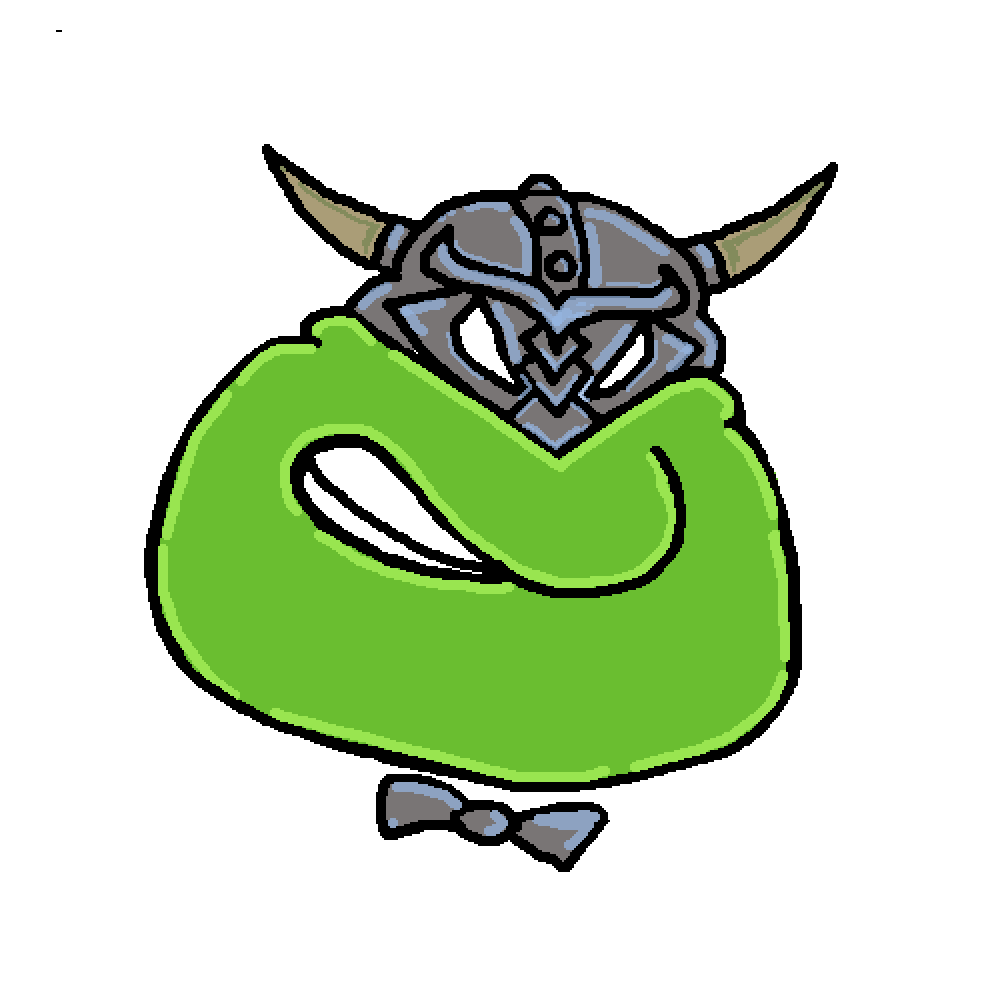
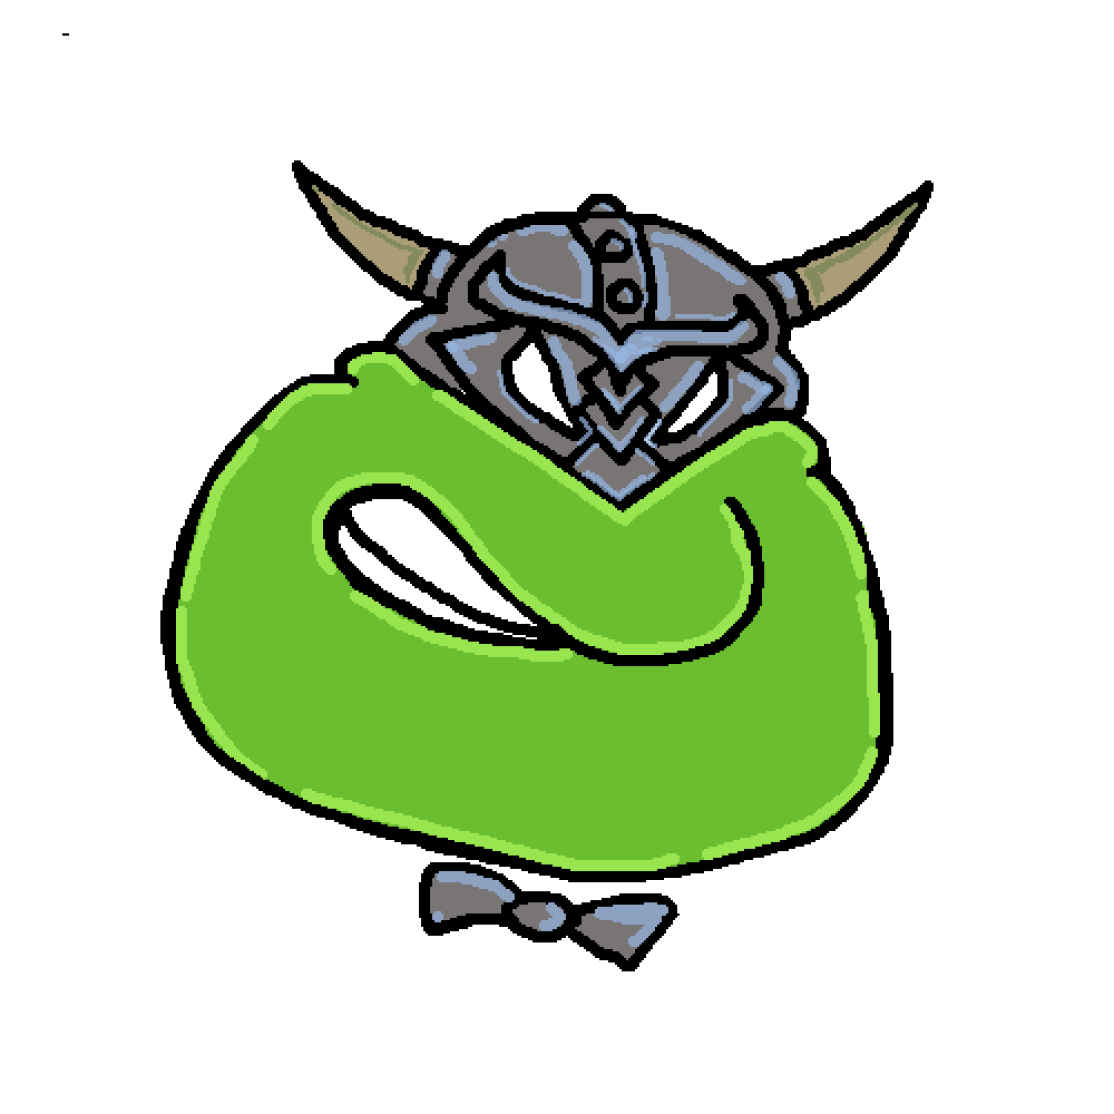
fixed viking size and normaldo hitboxes

diff --git a/normaldo_gaming/lib/data/skins/skins_repository_test_impl.dart b/normaldo_gaming/lib/data/skins/skins_repository_test_impl.dart
@@ -2,7 +2,6 @@ import 'package:normaldo_gaming/domain/pull_up_game/items.dart';
 import 'package:normaldo_gaming/domain/skins/skins_repository.dart';
 
 // ADD SFX
-// replace cocktail key to slow key
 
 final class SkinsRepositoryTestImpl implements SkinsRepository {
   @override
@@ -11,10 +10,6 @@ final class SkinsRepositoryTestImpl implements SkinsRepository {
           uniqueId: 'basic',
           name: 'NORMALDO',
           rarity: SkinRarity.classic,
-          speed: 1,
-          size: 1,
-          appearanceMultiplier: 1,
-          itemsSpeedMultiplier: 1,
           assets: SkinAssets(
             skinny: 'normaldo/normaldo1.png',
             slim: 'normaldo/normaldo2.png',
@@ -33,10 +28,6 @@ final class SkinsRepositoryTestImpl implements SkinsRepository {
           uniqueId: 'batman',
           name: 'HERO MASK',
           rarity: SkinRarity.rare,
-          speed: 1.1,
-          size: 1,
-          appearanceMultiplier: 1,
-          itemsSpeedMultiplier: 1,
           assets: SkinAssets(
               skinny: 'normaldo/batman/skinny.png',
               slim: 'normaldo/batman/slim.png',
@@ -49,7 +40,7 @@ final class SkinsRepositoryTestImpl implements SkinsRepository {
               dead: 'normaldo/batman/dead.png',
               mask: 'normaldo/batman/mask.png',
               sfx: {
-                'cocktail': ['batman/BATMAN COCTAIL.mp3'],
+                'slow': ['batman/BATMAN COCTAIL.mp3'],
                 'bite': ['batman/BATMAN EAT.mp3'],
                 'hit': ['batman/BATMAN HIT.mp3'],
                 'resist': ['batman/BATMAN LAUGHT.mp3'],
@@ -64,10 +55,6 @@ final class SkinsRepositoryTestImpl implements SkinsRepository {
           uniqueId: 'dracula',
           name: 'DRACULA BLOOD',
           rarity: SkinRarity.epic,
-          speed: 1.2,
-          size: 1.1,
-          appearanceMultiplier: 1,
-          itemsSpeedMultiplier: 1,
           assets: SkinAssets(
               skinny: 'normaldo/dracula/skinny.png',
               slim: 'normaldo/dracula/slim.png',
@@ -81,7 +68,7 @@ final class SkinsRepositoryTestImpl implements SkinsRepository {
               mask: 'normaldo/dracula/mask.png',
               sfx: {
                 'fatUp': ['dracula/VAMP BUPR.mp3'],
-                'cocktail': [
+                'slow': [
                   'dracula/VAMP EAT ENJOY.mp3',
                   'dracula/VAMP EAT ENJOY2.mp3',
                 ],
@@ -114,10 +101,6 @@ final class SkinsRepositoryTestImpl implements SkinsRepository {
           uniqueId: 'glasses',
           name: 'LUXURY GLASSES',
           rarity: SkinRarity.epic,
-          speed: 1,
-          size: 1.1,
-          appearanceMultiplier: 1,
-          itemsSpeedMultiplier: 1,
           assets: SkinAssets(
             skinny: 'normaldo/glasses/skinny.png',
             slim: 'normaldo/glasses/slim.png',
@@ -130,7 +113,7 @@ final class SkinsRepositoryTestImpl implements SkinsRepository {
             dead: 'normaldo/glasses/dead.png',
             mask: 'normaldo/glasses/mask.png',
             sfx: {
-              'cocktail': ['glasses/DINK COCTAIL.mp3'],
+              'slow': ['glasses/DINK COCTAIL.mp3'],
               'bite': ['glasses/GOLDEN EAT.mp3', 'glasses/GOLDEN EAT 2.mp3'],
               'hit': ['glasses/GOLDEN HIT.mp3'],
               'resist': ['glasses/GOLDEN LAUGHT.mp3'],
@@ -143,10 +126,6 @@ final class SkinsRepositoryTestImpl implements SkinsRepository {
           uniqueId: 'halloween',
           name: 'PUMPKIN HEAD',
           rarity: SkinRarity.rare,
-          speed: 1,
-          size: 1,
-          appearanceMultiplier: 1,
-          itemsSpeedMultiplier: 1,
           assets: SkinAssets(
               skinny: 'normaldo/halloween/skinny.png',
               slim: 'normaldo/halloween/slim.png',
@@ -174,10 +153,6 @@ final class SkinsRepositoryTestImpl implements SkinsRepository {
           uniqueId: 'harry_potter',
           name: "POTTA GLASSES",
           rarity: SkinRarity.legendary,
-          speed: 1,
-          size: 1,
-          appearanceMultiplier: 1,
-          itemsSpeedMultiplier: 1,
           assets: SkinAssets(
               skinny: 'normaldo/harry_potter/skinny.png',
               slim: 'normaldo/harry_potter/slim.png',
@@ -206,10 +181,6 @@ final class SkinsRepositoryTestImpl implements SkinsRepository {
           uniqueId: 'new_year',
           name: "NEW YEAR HAT",
           rarity: SkinRarity.rare,
-          speed: 1,
-          size: 1,
-          appearanceMultiplier: 1,
-          itemsSpeedMultiplier: 1,
           assets: SkinAssets(
               skinny: 'normaldo/new_year/skinny.png',
               slim: 'normaldo/new_year/slim.png',
@@ -238,10 +209,6 @@ final class SkinsRepositoryTestImpl implements SkinsRepository {
           uniqueId: 'pirate',
           name: "PIRATE HAT",
           rarity: SkinRarity.legendary,
-          speed: 1.2,
-          size: 0.9,
-          appearanceMultiplier: 1,
-          itemsSpeedMultiplier: 1.1,
           assets: SkinAssets(
               skinny: 'normaldo/pirate/skinny.png',
               slim: 'normaldo/pirate/slim.png',
@@ -274,10 +241,6 @@ final class SkinsRepositoryTestImpl implements SkinsRepository {
           uniqueId: 'spider-man',
           name: "THE HUMAN SPIDER \nMASK",
           rarity: SkinRarity.legendary,
-          speed: 1.3,
-          size: 1,
-          appearanceMultiplier: 1,
-          itemsSpeedMultiplier: 0.9,
           assets: SkinAssets(
               skinny: 'normaldo/spider_man/skinny.png',
               slim: 'normaldo/spider_man/slim.png',
@@ -300,7 +263,7 @@ final class SkinsRepositoryTestImpl implements SkinsRepository {
                   'spider_man/SPIDER HIT 2.mp3',
                 ],
                 'slowMo': ['spider_man/SPIDER SLOMO.mp3'],
-                'cocktail': [
+                'slow': [
                   'spider_man/SPIDER SIP.mp3',
                   'spider_man/SPIDER SIP  COCTAIL.mp3',
                 ],
@@ -315,10 +278,6 @@ final class SkinsRepositoryTestImpl implements SkinsRepository {
           uniqueId: 'viking',
           name: "VIKING HELMET",
           rarity: SkinRarity.common,
-          speed: 1,
-          size: 1,
-          appearanceMultiplier: 1,
-          itemsSpeedMultiplier: 1,
           assets: SkinAssets(
               skinny: 'normaldo/viking/skinny.png',
               slim: 'normaldo/viking/slim.png',
@@ -339,7 +298,7 @@ final class SkinsRepositoryTestImpl implements SkinsRepository {
                 ],
                 'resist': ['viking/VIKING LAUGHT.mp3'],
                 'hit': ['viking/VIKINGS  HIT.mp3'],
-                'cocktail': ['viking/VIKINGS COCTAIL.mp3'],
+                'slow': ['viking/VIKINGS COCTAIL.mp3'],
               }),
           resistanceToItems: [
             Items.trashBin,
@@ -349,10 +308,6 @@ final class SkinsRepositoryTestImpl implements SkinsRepository {
           uniqueId: 'wizard',
           name: "MAGIC WAND",
           rarity: SkinRarity.rare,
-          speed: 0.9,
-          size: 1,
-          appearanceMultiplier: 1,
-          itemsSpeedMultiplier: 0.8,
           assets: SkinAssets(
               skinny: 'normaldo/wizard/skinny.png',
               slim: 'normaldo/wizard/slim.png',

diff --git a/normaldo_gaming/lib/game/components/normaldo.dart b/normaldo_gaming/lib/game/components/normaldo.dart
@@ -89,6 +89,9 @@ class Normaldo extends SpriteGroupComponent<NormaldoFatState>
         CollisionCallbacks,
         HasNgAudio,
         HasGameRef {
+  static const smallHitboxRatio = 0.46;
+  static const bigHitboxRatio = 0.5957;
+
   Normaldo({
     required Vector2 size,
     required this.skin,
@@ -115,14 +118,14 @@ class Normaldo extends SpriteGroupComponent<NormaldoFatState>
 
   // 4DEV
   late final _circle = CircleComponent.relative(
-    0.7,
+    0.46,
     parentSize: size,
     anchor: anchor,
     position: Vector2(size.x / 2 + 10, size.y / 2),
     paint: Paint()..color = Colors.white.withOpacity(0.7),
   );
   late final _hitbox = CircleHitbox.relative(
-    0.7,
+    0.46,
     parentSize: size,
     anchor: anchor,
     position: Vector2(size.x / 2 + 10, size.y / 2),
@@ -249,6 +252,9 @@ class Normaldo extends SpriteGroupComponent<NormaldoFatState>
       }
       _changeFatAnimation(state);
     }
+    if (index >= 2) {
+      setHitboxPositionAndSize(size: size * bigHitboxRatio);
+    }
   }
 
   Future<void> prevFatState() async {
@@ -268,6 +274,9 @@ class Normaldo extends SpriteGroupComponent<NormaldoFatState>
     if (current != state) {
       audio.playSfx(Sfx.weightLoosed);
       _changeFatAnimation(state);
+    }
+    if (index < 2) {
+      setHitboxPositionAndSize(size: size * smallHitboxRatio);
     }
   }
 
@@ -316,7 +325,7 @@ class Normaldo extends SpriteGroupComponent<NormaldoFatState>
     add(effectsController);
 
     // 4DEV
-    // add(_circle);
+    add(_circle);
 
     add(_hitbox);
 

diff --git a/normaldo_gaming/lib/domain/skins/skins_repository.dart b/normaldo_gaming/lib/domain/skins/skins_repository.dart
@@ -10,14 +10,6 @@ final class Skin {
   final String uniqueId;
   final String name;
   final SkinRarity rarity;
-  // TODO: – Remove field
-  final double speed;
-  // TODO: – Remove field
-  final double size;
-  // TODO: – Remove field
-  final double appearanceMultiplier;
-  // TODO: – Remove field
-  final double itemsSpeedMultiplier;
   final SkinAssets assets;
   final List<Items> resistanceToItems;
 
@@ -25,10 +17,6 @@ final class Skin {
     required this.uniqueId,
     required this.name,
     required this.rarity,
-    required this.speed,
-    required this.size,
-    required this.appearanceMultiplier,
-    required this.itemsSpeedMultiplier,
     required this.assets,
     required this.resistanceToItems,
   });
@@ -37,10 +25,6 @@ final class Skin {
         uniqueId: 'basic',
         name: 'Normaldo',
         rarity: SkinRarity.classic,
-        speed: 1,
-        size: 1,
-        appearanceMultiplier: 1,
-        itemsSpeedMultiplier: 1,
         assets: SkinAssets(
           skinny: 'normaldo/normaldo1.png',
           slim: 'normaldo/normaldo2.png',

diff --git a/normaldo_gaming/lib/data/skins/models/skin_model.dart b/normaldo_gaming/lib/data/skins/models/skin_model.dart
@@ -8,10 +8,6 @@ abstract class SkinDto {
         uniqueId: json['uniqueId'],
         name: json['name'],
         rarity: SkinRarity.values[json['rarity']],
-        speed: json['speed'],
-        size: json['size'],
-        appearanceMultiplier: json['appearanceMultiplier'],
-        itemsSpeedMultiplier: json['itemsSpeedMultiplier'],
         assets: SkinAssets(
           skinny: json['assets']['skinny'],
           slim: json['assets']['slim'],
@@ -40,10 +36,6 @@ abstract class SkinDto {
         'uniqueId': skin.uniqueId,
         'name': skin.name,
         'rarity': skin.rarity.index,
-        'speed': skin.speed,
-        'size': skin.size,
-        'appearanceMultiplier': skin.appearanceMultiplier,
-        'itemsSpeedMultiplier': skin.itemsSpeedMultiplier,
         'assets': {
           'skinny': skin.assets.skinny,
           'slim': skin.assets.slim,

diff --git a/normaldo_gaming/lib/game/components/grid.dart b/normaldo_gaming/lib/game/components/grid.dart
@@ -178,7 +178,7 @@ class Grid extends PositionComponent
   Future<void> onLoad() async {
     size = Vector2(gameRef.size.x, gameRef.size.y);
     _lineSize = size.y / linesCount;
-    normaldo = Normaldo(size: Vector2.all(lineSize * 0.9), skin: skin)
+    normaldo = Normaldo(size: Vector2.all(lineSize), skin: skin)
       ..position = Vector2(size.x / 2, size.y / 2);
     for (int i = 1; i <= linesCount; i++) {
       _linesCentersY.add(_getCenterOfLine(i));
